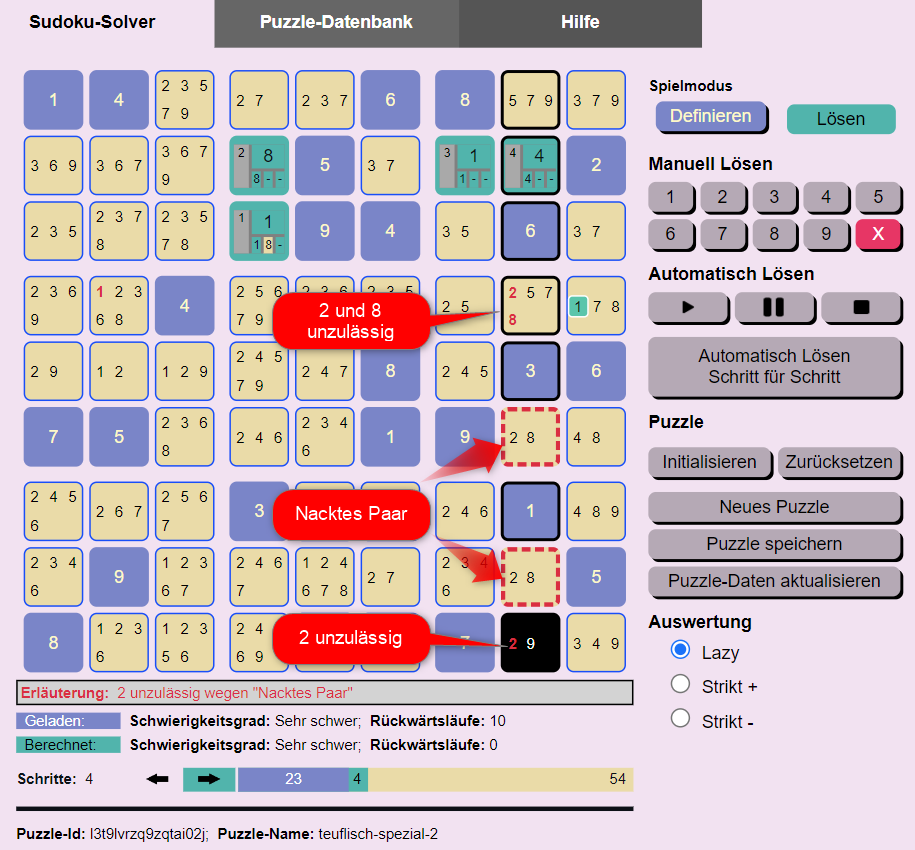
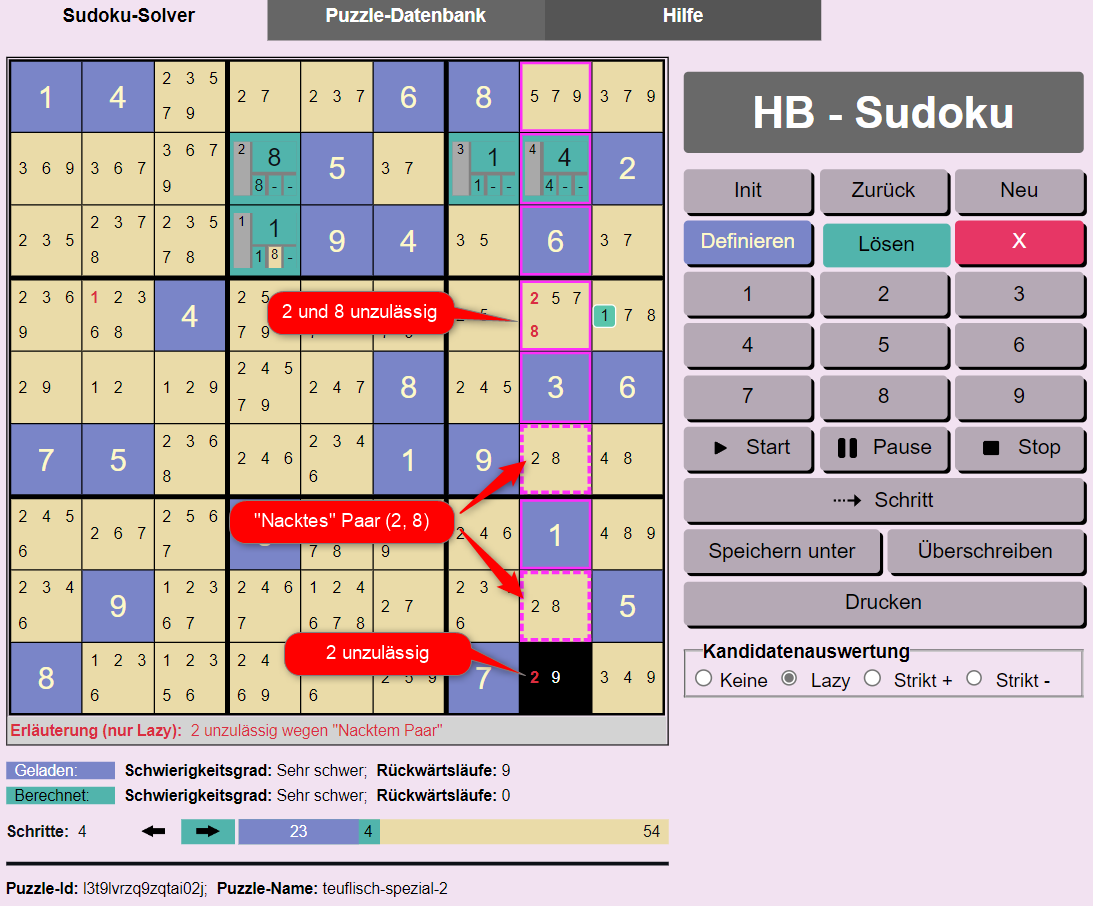
Hilfe aktualisiert

diff --git a/widescreen.css b/widescreen.css
@@ -811,10 +811,9 @@ input[readonly] {
 
 .cell-field {
     font-size: 1.8rem;
-    font-weight: bold;
     position: relative;
-    width: 25px;
-    height: 25px;
+    width: 20px;
+    height: 20px;
     display: grid;
     place-items: center;
 }

diff --git a/help.md b/help.md
@@ -22,7 +22,11 @@ Die HB-Sudoku-App besteht aus zwei Komponenten, dem Sudoku-Solver/Generator und 
 
 ## Der Sudoku-Solver
 
-Ein Sudoku (oder auch Puzzle) ist eine partiell gefüllte Tabelle. Die Tabelle hat 9 Reihen, 9 Spalten und 9 Blöcke. Die initial gesetzten Nummern heißen Givens. Reihen, Spalten und Blöcke haben einen gemeinsamen Oberbegriff: Die Gruppe. Jede Reihe, Spalte und jeder Block ist eine Gruppe. Um den Spieler bei der Lösung zu unterstützen, werden für Zellen, die noch keine gesetzte Nummer haben, die aktuell noch möglichen Nummern, die Kandidaten der Zelle angezeigt.
+Ein Sudoku (oder auch Puzzle) ist eine partiell gefüllte Tabelle. Die Tabelle hat 9 Reihen, 9 Spalten und 9 Blöcke. Die initial gesetzten Nummern heißen Givens. Sie werden blau unterlegt angezeigt. Grün unterlegte Zellen enthalten Lösungsnummern, die vom Spieler oder dem Solver gesetzt wurden. Reihen, Spalten und Blöcke haben einen gemeinsamen Oberbegriff: Die Gruppe. Jede Reihe, Spalte und jeder Block ist eine Gruppe.
+
+Der Spieler kann sich bei der Lösungssuche unterstützen lassen, indem er in den noch nicht gesetzten Zellen Kandidatennummern anzeigen lässt. Kandidatennummern einer Zelle sind Nummern, die ohne Widerspruch gesetzt werden können. Damit die Kandidatennummern angezeigt werden, muss der Spieler in dem Feld Kandidatenauswertung eine Option ungleich "Keine" selektieren, beispielsweise "Lazy". Weiter unten wird das Konzept der Kandidatenauswertung im Detail eingeführt.
+
+![Anwendungsansicht](./images/AppView2.png)
 
 ### Typischer Ablauf der Lösung eines Sudoku-Puzzles
 
@@ -32,7 +36,7 @@ Ein Sudoku (oder auch Puzzle) ist eine partiell gefüllte Tabelle. Die Tabelle h
 Beim Definieren wie auch beim Lösen besteht ein Lösungsschritt aus zwei Subschritten:
 
 1. **Sudoku-Zelle selektieren**.
-1. **Nummer setzen**: D.h. eine Nummer in "Manuell Lösen" wählen. Es kann auch einfach nur eine Nummerntaste für die Eingabe einer Nummer benutzt werden.
+1. **Nummer setzen**: D.h. eine Nummer im rechten Tastenblock wählen. Es kann auch einfach nur eine Nummerntaste auf der Tastatur für die Eingabe einer Nummer benutzt werden.
 
 Soll eine Nummern-Setzung zurückgenommen werden, muss die betroffene Zelle selektiert werden und dann die rote Lösch-Taste gedrückt werden.
 
@@ -45,17 +49,17 @@ Die nachfolgend verwendeten Begriffe sind im Laufe der Entwicklung dieses Solver
 |Zelle  |Bedeutung  |
 |---------|---------|
 |<img src="./images/definedCell.png" width="160px"/>|**Eine gegebene Nummer (Given):** In der Definitionsphase gesetzte Nummer.|
-|<img src="./images/playedCell.png" width="160px"/>|**Eine Lösungsnummer:** In der Lösungsphase gesetzte Nummer. In dieser Zelle wurde in der Lösungsphase manuell oder automatisch die Nummer 5 gesetzt. Wenn sie automatisch gesetzt wurde, wurde die automatische Ausführung des Solvers inzwischen gestoppt. Mit dem Stoppen der automatischen Ausführung wird in den Lösungszellen die Information über die automatische Ausführung gelöscht.|
-|<img src="./images/auto1option.png" width="160px"/>|**Automatisch gesetzte Nummer (Nummer eindeutig):** Der Solver hat in dieser Zelle automatisch die Nummer 5 gesetzt. Und zwar in der 8. Setzung einer Nummer in der Tabelle.. Die Wahl der zu setzenden Nummer war eindeutig. D.h. Die Nummer war eine notwendige Nummer oder ein Single. Definitionen siehe weiter unten.|
-|<img src="./images/auto2option.png" width="160px"/>|**Automatisch gesetzte Nummer einer Auswahl (Erste Nummer von zwei Optionen):** Der Solver hat in dieser Zelle automatisch die Nummer 1 gesetzt. Und zwar in der 1. Setzung einer Nummer. Er musste zwischen den beiden Nummern 1 und 8 wählen. Der Solver wählt zunächst die Nummer 1. Wenn die Vervollständigung der Matrix gelingt, kommt die zweite Nummer nicht mehr zum Zuge. Gelingt die Vervollständigung nicht, kehrt der Automat zu dieser Zelle zurück und probiert die zweite Option 8. Die Option 8 wurde noch nicht probiert. Noch nicht abgearbeitete Nummern werden mit gelbem Hintergrund angezeigt.|
-|<img src="./images/auto3option.png" width="160px"/>|**Automatisch gesetzte Nummer einer Auswahl (Erste Nummer von mehr als zwei Optionen):** Der Solver hat in dieser Zelle automatisch die Nummer 2 gesetzt. Und zwar in der 11. Setzung einer Nummer. Er musste zwischen den Nummern 2, 3 und noch weiteren hier nicht sichtbaren durch den Stern repräsentierten Nummern wählen. Der Solver wählt zunächst die Nummer 2. Wenn die Vervollständigung der Matrix gelingt, kommt die zweite Nummer nicht mehr zum Zuge. Gelingt die Vervollständigung nicht, kehrt der Automat zu dieser Zelle zurück und probiert die zweite Option 3. Nach und nach werden die nicht sichtbaren Optionen angezeigt. In der Praxis kommt der Versuch einer dritten Option so gut wie überhaupt nicht vor, weil zuvor schon eine Lösung gefunden wurde.|
+|<img src="./images/playedCell.png" width="160px"/>|**Eine Lösungsnummer:** In der Lösungsphase gesetzte Nummer. In dieser Zelle wurde in der Lösungsphase manuell oder automatisch die Nummer 1 gesetzt. Wenn sie automatisch gesetzt wurde, wurde die automatische Ausführung des Solvers inzwischen gestoppt. Mit dem Stoppen der automatischen Ausführung wird in den Lösungszellen die Information über die automatische Ausführung gelöscht.|
+|<img src="./images/auto1option.png" width="160px"/>|**Automatisch gesetzte Nummer (Nummer eindeutig):** Der Solver hat in dieser Zelle automatisch die Nummer 9 gesetzt. Und zwar in der 8. Setzung einer Nummer in der Tabelle.. Die Wahl der zu setzenden Nummer war eindeutig. D.h. Die Nummer war eine notwendige Nummer oder ein Single. Definitionen siehe weiter unten.|
+|<img src="./images/auto2option.png" width="160px"/>|**Automatisch gesetzte Nummer einer Auswahl (Erste Nummer von zwei Optionen):** Der Solver hat in dieser Zelle automatisch die Nummer 1 gesetzt. Und zwar in der 1. Setzung einer Nummer. Er musste zwischen den beiden Nummern 1 und 8 wählen. Der Solver wählt zunächst die Nummer 1. Wenn mit dieser Wahl die Lösung des Puzzles gelingt, kommt die zweite Nummer nicht mehr zum Zuge. Gelingt die Lösung nicht, kehrt der Automat zu dieser Zelle zurück und probiert die zweite Option 8. Die Option 8 wurde noch nicht probiert. Noch nicht abgearbeitete Nummern werden mit gelbem Hintergrund angezeigt.|
+|<img src="./images/auto3option.png" width="160px"/>|**Automatisch gesetzte Nummer einer Auswahl (Erste Nummer von mehr als zwei Optionen):** Der Solver hat in dieser Zelle automatisch die Nummer 2 gesetzt. Und zwar in der 12. Setzung einer Nummer. Er musste zwischen den Nummern 2, 3 und noch weiteren hier nicht sichtbaren durch den Stern repräsentierten Nummern wählen. Der Solver wählt zunächst die Nummer 2. Wenn die Lösung des Puzzles gelingt, kommt die zweite Nummer nicht mehr zum Zuge. Gelingt die Lösung nicht, kehrt der Automat zu dieser Zelle zurück und probiert die zweite Option 3. Nach und nach werden die nicht sichtbaren Optionen angezeigt. In der Praxis kommt der Versuch einer dritten Option so gut wie überhaupt nicht vor, weil zuvor schon eine Lösung gefunden wurde.|
 |<img src="./images/auto4option.png" width="160px"/>|**Automatisch gesetzte Nummer einer Auswahl (Zweite Nummer von zwei Optionen):** Der Solver hat in dieser Zelle automatisch die Nummer 8 gesetzt. Und zwar in der 1. Setzung einer Nummer. Nachdem die erste Option 1 nicht zum Erfolg geführt hat, hat er die zweite Option 8 gewählt. Jetzt sind alle Optionen dieser Zelle abgearbeitet.|
 |<img src="./images/optionCell.png" width="160px"/>|**Kandidaten:** Für diese Zelle wurde noch keine Nummer gesetzt. Nur noch eine der Nummern 1, 2, 4 und 5 kann gewählt werden. Das sind die Kandidaten der Zelle. Die nicht aufgeführten Nummern sind direkt unzulässig, weil sie bereits in einer anderen Zelle des Blocks, der Reihe oder Spalte gesetzt sind.|
 |<img src="./images/neccessary.png" width="160px"/>|**Notwendige Nummer:** Für die nebenstehende Zelle wurde noch keine Nummer gesetzt. Kandidatnummern sind die Nummern 2, 5, 6 und 7. Jedoch hat der Solver ermittelt, dass die Nummer 5 notwendig ist, damit das Sudoku lösbar bleibt. 5 ist eine notwendige Nummer für diese Zelle. Eine Nummer in einer Zelle ist notwendig, wenn die Nummer in ihrem Block, in ihrer Reihe oder Spalte einzig ist. D.h. sie kann nur noch hier gesetzt werden. Hinweis: Im Wikipedia-Artikel [Wikipedia](https://en.wikipedia.org/wiki/Glossary_of_Sudoku) werden notwendige Nummern werden als "Hidden Singles" bezeichnet. Wir wollen diese Bezeichnung hier nicht übernehmen, weil wir diese Bezeichnung schon anderweitig benutzen: siehe nachfolgende Definition 'Verstecktes Single'.|
-|<img src="./images/indirect.png" width="160px"/>|**Unzulässige Kandidatnummer:** Für die nebenstehende Zelle wurde noch keine Nummer gesetzt. Kandidaten dieser Zelle sind die drei Nummern 3, 6 und 8. Jedoch hat der Solver ermittelt, dass die 3 indirekt unzulässig ist. Wenn man sie setzen würde, würde der Solver sofort oder einige Schritte später die Widersprüchlichkeit des Puzzles feststellen. Zur Definition der Unzulässigkeit von Kandidaten siehe den entsprechenden Abschnitt dieser Hilfe.|
-|<img src="./images/direkterSingle.png" width="160px"/> <img src="./images/indirekterSingle.png" width="160px"/>| **Single:** Eine Single-Nummer ist ein Kandidat in einer Zelle, wenn es keine weiteren Kandidaten in der Zelle gibt. In den beiden nebenstehenden Beispielen sind die 6 und die 9 Singles. Im Gegensatz zur 6 ist die 9 ein **Verstecktes Single**. Die 9 ist in dieser Zelle ein verstecktes Single, weil die anderen Kandidaten, die rote 5 und 7, indirekt unzulässig sind. Hinweis: [Andrew Stuart](https://www.sudokuwiki.org/Main_Page) bezeichnet Singles als 'Solved Cells'.|
-|<img src="./images/nochoice.png" width="160px"/><img src="./images/nochoice2.png" width="160px"/>|**Widerspruch - Überhaupt keine zulässige Nummer:** Für diese Zelle wurde noch keine Nummer gesetzt. Allerdings gibt es keine Kandidatnummer mehr, die noch gesetzt werden könnte. Die Nummern 4, 8 und 9 sind unzulässig. In der zweiten dargestellten Zelle gibt es nicht mal mehr Kandidatnummern. D.h. das Sudoku ist widersprüchlich. Wenn das Sudoku noch erfolgreich gelöst werden soll, müssen ein oder mehrere der bisherigen Nummernsetzungen zurückgenommen werden. Tritt während der automatischen Ausführung eine solche Zelle auf, schaltet der Solver in den Rückwärts-Modus um.|
-|<img src="./images/twoNeccessary.png" width="160px"/>|**Widerspruch - Gleichzeitig verschiedene notwendige Nummern:** Für diese Zelle wurde noch keine Nummer gesetzt. Kandidatnummern sind 5, 7 und 9. Jedoch hat der Solver zwei verschiedene notwendige Nummern für diese Zelle ermittelt: 7 und 9. Das geht natürlich nicht. Es können in einer Zelle nicht zwei Nummern gleichzeitig gesetzt werden. D.h. das Sudoku ist widersprüchlich. Wenn das Sudoku noch erfolgreich gelöst werden soll, müssen ein oder mehrere der bisherigen Nummernsetzungen zurückgenommen werden. Tritt während der automatischen Ausführung eine solche Zelle auf, schaltet der Solver in den Rückwärts-Modus um.|
+|<img src="./images/indirect.png" width="160px"/>|**Unzulässige Kandidatnummer:** Für die nebenstehende Zelle wurde noch keine Nummer gesetzt. Kandidaten dieser Zelle sind die drei Nummern 1, 3 und 6. Jedoch hat der Solver ermittelt, dass die 3 indirekt unzulässig ist. Wenn man sie setzen würde, würde der Solver sofort oder einige Schritte später die Widersprüchlichkeit des Puzzles feststellen. Zur Definition der Unzulässigkeit von Kandidaten siehe den entsprechenden Abschnitt dieser Hilfe.|
+|<img src="./images/direkterSingle.png" width="160px"/> <img src="./images/indirekterSingle.png" width="160px"/>| **Single:** Eine Single-Nummer ist der Kandidat in einer Zelle, wenn es keine weiteren Kandidaten in der Zelle gibt. In den beiden nebenstehenden Beispielen sind die 1 und die 9 Singles. Im Gegensatz zur 1 ist die 9 ein **Verstecktes Single**. Die 9 ist in dieser Zelle ein verstecktes Single, weil die anderen Kandidaten, die rote 5 und 6, indirekt unzulässig sind. |
+|<img src="./images/nochoice.png" width="160px"/><img src="./images/nochoice2.png" width="160px"/>|**Widerspruch - Überhaupt keine zulässige Nummer:** Für diese Zelle wurde noch keine Nummer gesetzt. Allerdings gibt es keine Kandidatnummer mehr, die noch gesetzt werden könnte. Die Nummern 4 und 8 sind unzulässig. In der zweiten dargestellten Zelle gibt es nicht mal mehr Kandidatnummern. D.h. das Sudoku ist widersprüchlich. Wenn das Sudoku noch erfolgreich gelöst werden soll, müssen ein oder mehrere der bisherigen Nummernsetzungen zurückgenommen werden. Tritt während der automatischen Ausführung eine solche Zelle auf, schaltet der Solver in den Rückwärts-Modus um.|
+|<img src="./images/twoNeccessary.png" width="160px"/>|**Widerspruch - Gleichzeitig verschiedene notwendige Nummern:** Für diese Zelle wurde noch keine Nummer gesetzt. Kandidatnummern sind 1, 2 und 4. Jedoch hat der Solver zwei verschiedene notwendige Nummern für diese Zelle ermittelt: 1 und 2. Das geht natürlich nicht. Es können in einer Zelle nicht zwei Nummern gleichzeitig gesetzt werden. D.h. das Sudoku ist widersprüchlich. Wenn das Sudoku noch erfolgreich gelöst werden soll, müssen ein oder mehrere der bisherigen Nummernsetzungen zurückgenommen werden. Tritt während der automatischen Ausführung eine solche Zelle auf, schaltet der Solver in den Rückwärts-Modus um.|
 |<img src="./images/conflct.png" width="160px"/>|**Widerspruch - Die Nummer 3 ist bereits einmal gesetzt:** Für diese Zelle wurde die Nummer 3 gesetzt. Diese Nummer ist direkt unzulässig, weil in der Spalte, Reihe oder dem Block dieser Zelle bereits eine 3 gesetzt ist. Das zweite oder dritte Auftreten der Nummer wird ebenfalls mit rotem Rand angezeigt.|
 
 ### Zwei Phasen
@@ -69,7 +73,7 @@ Hinweis: Gegebene Nummern, die Givens - dies sind blaue Nummern - können in der
 
 ### Manuelle Ausführung
 
-Die manuelle Ausführung wird in jedem Fall in der Definitionsphase genutzt. In der Lösungsphase ist sie optional. Die Lösungsphase kann alternativ auch automatisch durchgeführt werden.
+Manuelle Ausführung bedeutet, dass der Spieler die Nummern in den Zellen setzt. Die manuelle Ausführung wird in jedem Fall in der Definitionsphase genutzt. In der Lösungsphase ist sie optional. Die Lösungsphase kann alternativ auch automatisch durchgeführt werden. D.h. der Solver setzt die Nummern in den Zellen.
 
 ### Automatische Ausführung
 
@@ -84,11 +88,11 @@ Die manuelle Ausführung wird in jedem Fall in der Definitionsphase genutzt. In 
 
 |Taste  |Bedeutung  |
 |---------|---------|
-|**Initialisieren**|Durch das Drücken dieser Taste wird das aktuelle Puzzle des Solvers initialisiert. Danach ist die Sudoku-Tabelle leer.|
-|**Zurücksetzen**|Mittels dieser Taste wird das Puzzle des Solvers zurückgesetzt auf die Aufgabenstellung. D.h. alle in der Lösungsphase gesetzten Zellen, die grünen Zellen, werden gelöscht. Die Givens bleiben erhalten.|
-|**Neues Puzzle**|Mittels dieser Taste kann ein neues Puzzle generiert werden.|
-|**Puzzle speichern**|Mittels dieser Taste kann das aktuelle Puzzle in der Datenbank gespeichert werden.|
-|**Puzzle-Daten aktualisieren**|Mittels dieser Taste kann für ein aus der Datenbank geladenes Puzzle das neue Ausführungsergebnis gespeichert werden. Falls das aktuelle Puzzle nicht aus der Datenbank geladen wurde, wird der Speicherdialog angestoßen.|
+|**Init**|Durch das Drücken dieser Initialisierungstaste wird das aktuelle Puzzle des Solvers initialisiert. Danach ist die Sudoku-Tabelle leer.|
+|**Zurück**|Mittels dieser Taste wird das Puzzle des Solvers zurückgesetzt auf die Aufgabenstellung. D.h. alle in der Lösungsphase gesetzten Zellen, die grünen Zellen, werden gelöscht. Die Givens bleiben erhalten.|
+|**Neu**|Mittels dieser Taste kann ein neues Puzzle generiert werden.|
+|**Speichern unter**|Mittels dieser Taste kann das aktuelle Puzzle in der Datenbank gespeichert werden.|
+|**Überschreiben**|Mittels dieser Taste können für ein aus der Datenbank geladenes Puzzle die Daten in der Datenbank aktualisiert werden. Die alten Daten werden durch die neuen Daten überschrieben. Falls das aktuelle Puzzle nicht aus der Datenbank geladen wurde, wird der Speicherdialog angestoßen.|
 
 ### Kandidaten und unzulässige Nummern
 
@@ -97,41 +101,36 @@ Für eine noch nicht belegte Zelle der Sudoku-Tabelle unterscheiden wir Kandidat
 ### Notwendige Nummern
 
 ![Lazy notwendig](./images/lazynotwendig.png)
-Eine Kandidatnummer in einer Zelle ist notwendig, wenn die Nummer in ihrem Block, in ihrer Reihe oder Spalte einzig ist. D.h. sie kann nur hier gesetzt werden. Im Bild ist die grüne 1 notwendig, weil sie in ihrer Reihe kein weiteres mal zulässig ist. Im Lazy-Auswertungsmodus zeigt der Solver den die Notwendigkeit verursachenden Block, Spalte oder Reihe an, wenn man die Zelle mit der notwendigen Nummer selektiert hat. Die roten Pfeile zeigen für jede offene Zelle der Reihe, warum in ihnen die 1 unzulässig ist.
-
+Eine Kandidatnummer in einer Zelle ist notwendig, wenn die Nummer in ihrem Block, in ihrer Reihe oder Spalte einzig ist. D.h. sie kann nur hier gesetzt werden. Im Bild ist die grüne 1 notwendig, weil sie in ihrem Block kein weiteres mal zulässig ist. Im Lazy-Auswertungsmodus zeigt der Solver den die Notwendigkeit verursachenden Block, Spalte oder Reihe an, wenn man die Zelle mit der notwendigen Nummer selektiert hat.
 ### Unzulässige Kandidaten
 
-**Unzulässige Nummern** sind Nummern, die in einem Block, in einer Spalte oder Reihe bereits einmal existieren. In einer ungesetzten Zelle werden die  unzulässigen Nummern nicht angezeigt. Anders dagegen unzulässige Kandidaten. **Unzulässige Kandidaten** werden rot angezeigt. Eine Kandidatnummer ist (indirekt) unzulässig, wenn ihre Setzung in der Zelle das Puzzle widerspruchsvoll macht.
+**Direkt unzulässige Nummern** sind Nummern, die in einem Block, in einer Spalte oder Reihe bereits einmal existieren. Direkt unzulässige Nummern können keine Kandidaten sein. Es gibt jedoch auch unzulässige Kandidaten. **Unzulässige Kandidaten** werden rot angezeigt. Eine Kandidatnummer ist (indirekt) unzulässig, wenn ihre Setzung in der Zelle das Puzzle widerspruchsvoll macht.
 
 In fairen Puzzles kann man unzulässige Kandidaten allein durch logisches Schließen unter Anwendung definierter Kriterien ohne Backtracking erkennen. In der Literatur werden zahlreiche Kriterien genannt. Grundsätzlich ist die rein logische Erkennung der Unzulässigkeit von Kandidaten unvollständig. D.h. es gibt so schwere Puzzles, dass nicht alle unzulässigen Kandidaten mittels der Anwendung von Kriterien erkannt werden können. Solche Sudokus können nur durch Backtracking gelöst werden. Der vorliegende Solver unterstützt nachfolgend beschriebene Kriterien für das Erkennen der Unzulässigkeit von Kandidaten. Falls diese für das Lösen eines konkreten Puzzles nicht ausreichen, löst der Solver das Puzzle durch Backtracking.
 
-1. **Kriterium: Unzulässig wegen notwendiger Nummer.** Eine Kandidatnummer ist unzulässig wegen einer notwendigen Nummer, wenn sie in ihrer Spalte, Reihe oder ihrem Block auch als notwendige Nummer auftritt. Im nachfolgenden Beispiel sind die roten Nummern 1 wegen der grünen 1 unzulässig. Die grüne 1 ist notwendig, weil sie in ihrer Reihe einzig ist, also in der Reihe kein weiteres mal zulässig ist.![Indirekt wegen notwendig](./images/indirektwgnotwendig.png)
+1. **Kriterium: Unzulässig wegen notwendiger Nummer.** Eine Kandidatnummer ist unzulässig wegen einer notwendigen Nummer, wenn sie in ihrer Spalte, Reihe oder ihrem Block auch als notwendige Nummer auftritt. Im nachfolgenden Beispiel sind die roten Nummern 1 wegen der grünen 1 unzulässig. Die grüne 1 ist notwendig, weil sie in ihrem Block einzig ist, also in dem Block kein weiteres mal zulässig ist.![Indirekt wegen notwendig](./images/indirektwgnotwendig.png)
 
 1. **Kriterium: Unzulässig wegen "Nacktes Paar".** Eine Kandidatnummer ist unzulässig, wenn es in einem Block, einer Reihe oder Spalte Paare gibt und Nummern dieser Paare zusätzlich in weiteren Zellen dieses Blocks, dieser Spalte oder Reihe auftauchen. Im nachfolgenden Beispiel ist das 2-8-Paar ein nacktes Paar. Das 2-8-Paar macht in seiner Spalte alle 2 und 8 unzulässig. Der Grund: Das Paar bedeutet, dass die 2 und die 8 auf jeden Fall in einer der beiden Zellen des Paares gesetzt werden muss. Aktuell steht nur noch nicht fest, ob die 2 oder die 8 oben ist. Fest steht aber jetzt schon, dass in den übrigen Zellen der Spalte keine 2 oder 8 mehr vorkommen können. Die 2 und 8 sind hier unzulässig. Diese Spaltendarstellung mit den gestrichelten Kanten zeigt der Solver nur im Lazy-Auswertungsmodus, wenn man eine Zelle mit unzulässigen Nummern selektiert hat.![Indirekt unzulässig](./images/indirektWegenPairing.png)
 
 1. **Kriterium: Unzulässig wegen "Verstecktes Paar".** In einem Block, einer Spalte oder Reihe kann es ein verstecktes Paar geben. Ein verstecktes Paar besteht aus zwei Zellen, die zwei gemeinsame Nummern haben, im Beispiel 1 und 8, die in den übrigen Zellen nicht vorkommen. Daneben können sie weitere Nummern haben. Am Ende können in diesen beiden Zellen nur die beiden Nummern 1 und 8 untergebracht werden. Deshalb müssen die übrigen Nummern der beiden Zellen eliminiert werden.
 ![Verstecktes Paar](./images/hiddenpair.png)
 
-1. **Kriterium: Unzulässig wegen Überschneidung.** Ein Block und eine Spalte oder Reihe überschneiden sich. In der Spalte gibt es Nummern, die nur in den gemeinsamen Zellen mit dem Block auftauchen. Im Beispiel die 7. Damit es am Ende in der Spalte überhaupt eine 7 gibt, muss eine 7 in der Spalte gewählt werden. Dies wiederum bedeutet, dass die Nummern 7 in dem Block neben der Spalte gestrichen werden müssen.
+1. **Kriterium: Unzulässig wegen Überschneidung.** Ein Block und eine Spalte oder Reihe überschneiden sich. In der Reihe gibt es Nummern, die nur in den gemeinsamen Zellen mit dem Block auftauchen. Im Beispiel die 7. Damit es am Ende in der Reihe überhaupt eine 7 gibt, muss eine 7 in der Reihe gewählt werden. Dies wiederum bedeutet, dass die Nummern 7 in dem Block jenseits der Reihe gestrichen werden müssen.
 ![Überschneidung](./images/ueberschneidung.png)
 
 ### Methoden der Kandidatenauswertung
 
-Der Solver unterscheidet mehrere Methoden der Kandidatenauswertung.
+Unter Kandidatenauswertung verstehen wir die Anwendung der Kriterien, die im vorigen Abschnitt eingeführt wurden. Es müssen nicht immer alle Kriterien angewandt werden. Der Solver unterscheidet mehrere Methoden der Kandidatenauswertung.
 
-1. **Keine Kandidatenauswertung:** Der Solver arbeitet ohne Kandidaten. Diese Option ist wünschenswert, wenn der Spieler ohne Hilfe des Solvers eine manuelle Lösung des Puzzles suchen will. In diesem Modus werden in den Zellen keine Kandidaten angezeigt.
+1. **Keine** Kandidatenauswertung. Der Solver arbeitet ohne Kandidaten. Diese Option ist wünschenswert, wenn der Spieler ohne Hilfe des Solvers eine manuelle Lösung des Puzzles suchen will. In diesem Modus werden in den Zellen keine Kandidaten angezeigt.
 
-1. **Lazy Kandidatenauswertung:** Wenn die Anzahl unzulässiger Kandidaten (die roten Nummern) groß wird, wird es immer schwieriger, nackte Paare oder versteckte Paare zu erkennen. Die Lazy-Auswertungsmethode praktiziert eine verzögerte Auswertung. Die Auswertung erfolgt nur soweit, bis die nächste notwendige Nummer oder die nächste Single-Nummer oder die nächste versteckte Single-Nummer bestimmt ist. Nur im Lazy-Modus, sind die oben gezeigten Beispiele mit ihren Erläuterungen der Kandidatennummern möglich.
+1. **Lazy** Kandidatenauswertung. Wenn die Anzahl unzulässiger Kandidaten (die roten Nummern) groß wird, wird es immer schwieriger, nackte Paare oder versteckte Paare zu erkennen. Die Lazy-Auswertungsmethode praktiziert eine verzögerte Auswertung. Die Auswertung erfolgt nur soweit, bis die nächste notwendige Nummer oder die nächste Single-Nummer oder die nächste versteckte Single-Nummer bestimmt ist. Nur im Lazy-Modus, sind die oben gezeigten Beispiele mit ihren Erläuterungen der Kandidatennummern sinnvoll visualisierbar.
 
-1. **Strikte Auswertung:** Diese Auswertungsmethode führt eine vollständige Auswertung durch: Alle aktuell unzulässigen Kandidaten, alle notwendigen Nummern, alle Singles und versteckten Singles werden ermittelt.
+1. **Strikt +**: Diese Auswertungsmethode führt eine vollständige Auswertung durch. Alle aktuell unzulässigen Kandidaten, alle notwendigen Nummern, alle Singles und versteckten Singles werden ermittelt und angezeigt.
 
-Die strikte Auswertung kann in zwei Varianten angezeigt werden:
+1. **Strikt -** : Wie Strikt +. Jedoch werden die errechneten unzulässigen Kandidaten ausgeblendet.
 
-1. **Strikt +**: Alle errechneten unzulässigen Kandidaten werden angezeigt (in roter Schrift). Bei sehr vielen unzulässigen Kandidaten wird das schnell sehr unübersichtlich, siehe das vorige Beispiel.
-
-1. **Strikt -** : Die errechneten unzulässigen Kandidaten werden ausgeblendet.
-
-Das nachfolgende Bild zeigt ein Puzzle im Strikt-Minus-Auswertungsmodus. Bei genauerer Betrachtung dieses Beispiels fällt auf, dass in allen Zelle nur noch eine Nummer zulässig ist.
+Das nachfolgende Bild zeigt ein Puzzle im Strikt-Plus-Auswertungsmodus. Bei genauerer Betrachtung dieses Beispiels fällt auf, dass in allen Zellen nur noch eine Nummer zulässig ist.
 
 ![strictplus](./images/strictplus.png)
 
@@ -149,7 +148,7 @@ Im Lazy-Modus wird die Verursachung notwendiger Nummern oder unzulässiger Kandi
 
 **Vorteil der strikten Auswertung: Lösung des Puzzles mit weniger Schritten.** Im Auswertungsmodus Strikt benötigt der Solver im Allgemeinen weniger Schritte bis zur Lösung des Puzzles als im Ausführungsmodus Lazy. Woran liegt das? Es liegt daran, dass der Solver im Ausführungsmodus Strikt sehr viel früher die Widersprüchlichkeit, falls vorhanden, der aktuellen Nummernbelegungen feststellt. Dies wiederum führt dazu, dass die Anzahl der Rückwärtsschritte entsprechend geringer wird und damit die Anzahl der Schritte insgesamt. Die Anzahl der Rückwärtsläufe bleibt in beiden Ausführungsmodi gleich. Der Solver untersucht in beiden Auswertungsmodi dieselben Optionen.
 
-Dieser Sudoku-Solver zeichnet sich in erster Linie durch seine nachvollziehbare Lösungssuche aus. Die Schrittminimierung ist kein Ziel. Daher ist der Lazy-Auswertungsmodus der Default.
+Dieser Sudoku-Solver zeichnet sich in erster Linie durch seine nachvollziehbare Lösungssuche aus. Die Schrittminimierung ist kein Ziel. Daher ist der Lazy-Auswertungsmodus der Default bei der automatischen Lösungssuche.
 
 ## Widerspruchsvolle Sudokus
 
@@ -181,11 +180,8 @@ Wir betrachten hier die abstrakte Gruppe. Eine konkrete Gruppe ist immer entwede
 
 Wir sehen, dass gleichzeitig mehrere Bedingungen für einen Gruppenwiderspruch vorliegen. Tritt während der automatischen Ausführung eine solche widerspruchsvolle Gruppe auf, schaltet der Solver in den Rückwärts-Modus um.
 
-Widerspruch - Single 8 mehrfach:
+Widerspruch - Single 4 mehrfach:
 ![Spaltenkonflikt](./images/colconflct.png)
-
-Widerspruch - Dieselbe notwendige Nummer 2 zweimal:
-![Notwedig-Konflikt](./images/notwendigWiderspruch.png)
 
 ## Die Lösungssuche des Solvers
 
@@ -222,7 +218,7 @@ Extrem oder sehr schwere Sudokus eignen sich nicht für die manuelle Lösungssuc
 
 ## Der Sudoku-Generator
 
-Nahtlos integriert in den Sudoku-Solver findet sich ein Sudoku-Generator. Mittels der Taste **Neues Puzzle** kann ein neues Puzzle generiert werden. Der Generator generiert nur Puzzles mit den Schwierigkeitsgraden Leicht, Mittel und Schwer. Also keine sehr schweren Puzzles. Die generierten Puzzles können daher allein durch logisches Schließen ohne Backtracking (Trial and Error) gelöst werden.
+Nahtlos integriert in den Sudoku-Solver findet sich ein Sudoku-Generator. Mittels der Taste **Neu** kann ein neues Puzzle generiert werden. Der Generator generiert nur Puzzles mit den Schwierigkeitsgraden Leicht, Mittel und Schwer. Also keine sehr schweren Puzzles. Die generierten Puzzles können daher allein durch logisches Schließen ohne Backtracking (Trial and Error) gelöst werden.
 
 Der Generator kann nicht gezielt ein Puzzle mit bestimmtem Schwierigkeitsgrad herstellen. Die generierten Puzzles haben zufällig einen der genannten Schwierigkeitsgrade. Wenn man einen bestimmten Schwierigkeitsgrad wünscht, muss man gegebenenfalls mehrere Generierungen veranlassen, bis der gewünschte Schwierigkeitsgrad dabei ist.
 
@@ -257,8 +253,6 @@ Beim Abspeichern kann dem Puzzle ein Name gegeben werden. Automatisch erhält es
 |Drucken| **Puzzle drucken.** Mittels der Taste Drucken kann das aktuell selektierte Puzzle gedruckt werden. Dabei wird nur die Aufgabe, nicht aber die Lösung ausgedruckt. Dies ist besonders dann nützlich wenn man ein generiertes Puzzle von Hand auf dem Papier lösen möchte.
 
 ## Die Smartphone Version der App
-
-![Smartphone](./images/smartphoneVersion.png)
 
 Auf dem Smartphone ist der Solver/Generator als Web-Anwendung verfügbar. Also in einem Browser die URL eingeben. Die Funktionalität ist bis auf die Puzzle-Datenbank identisch.
 
